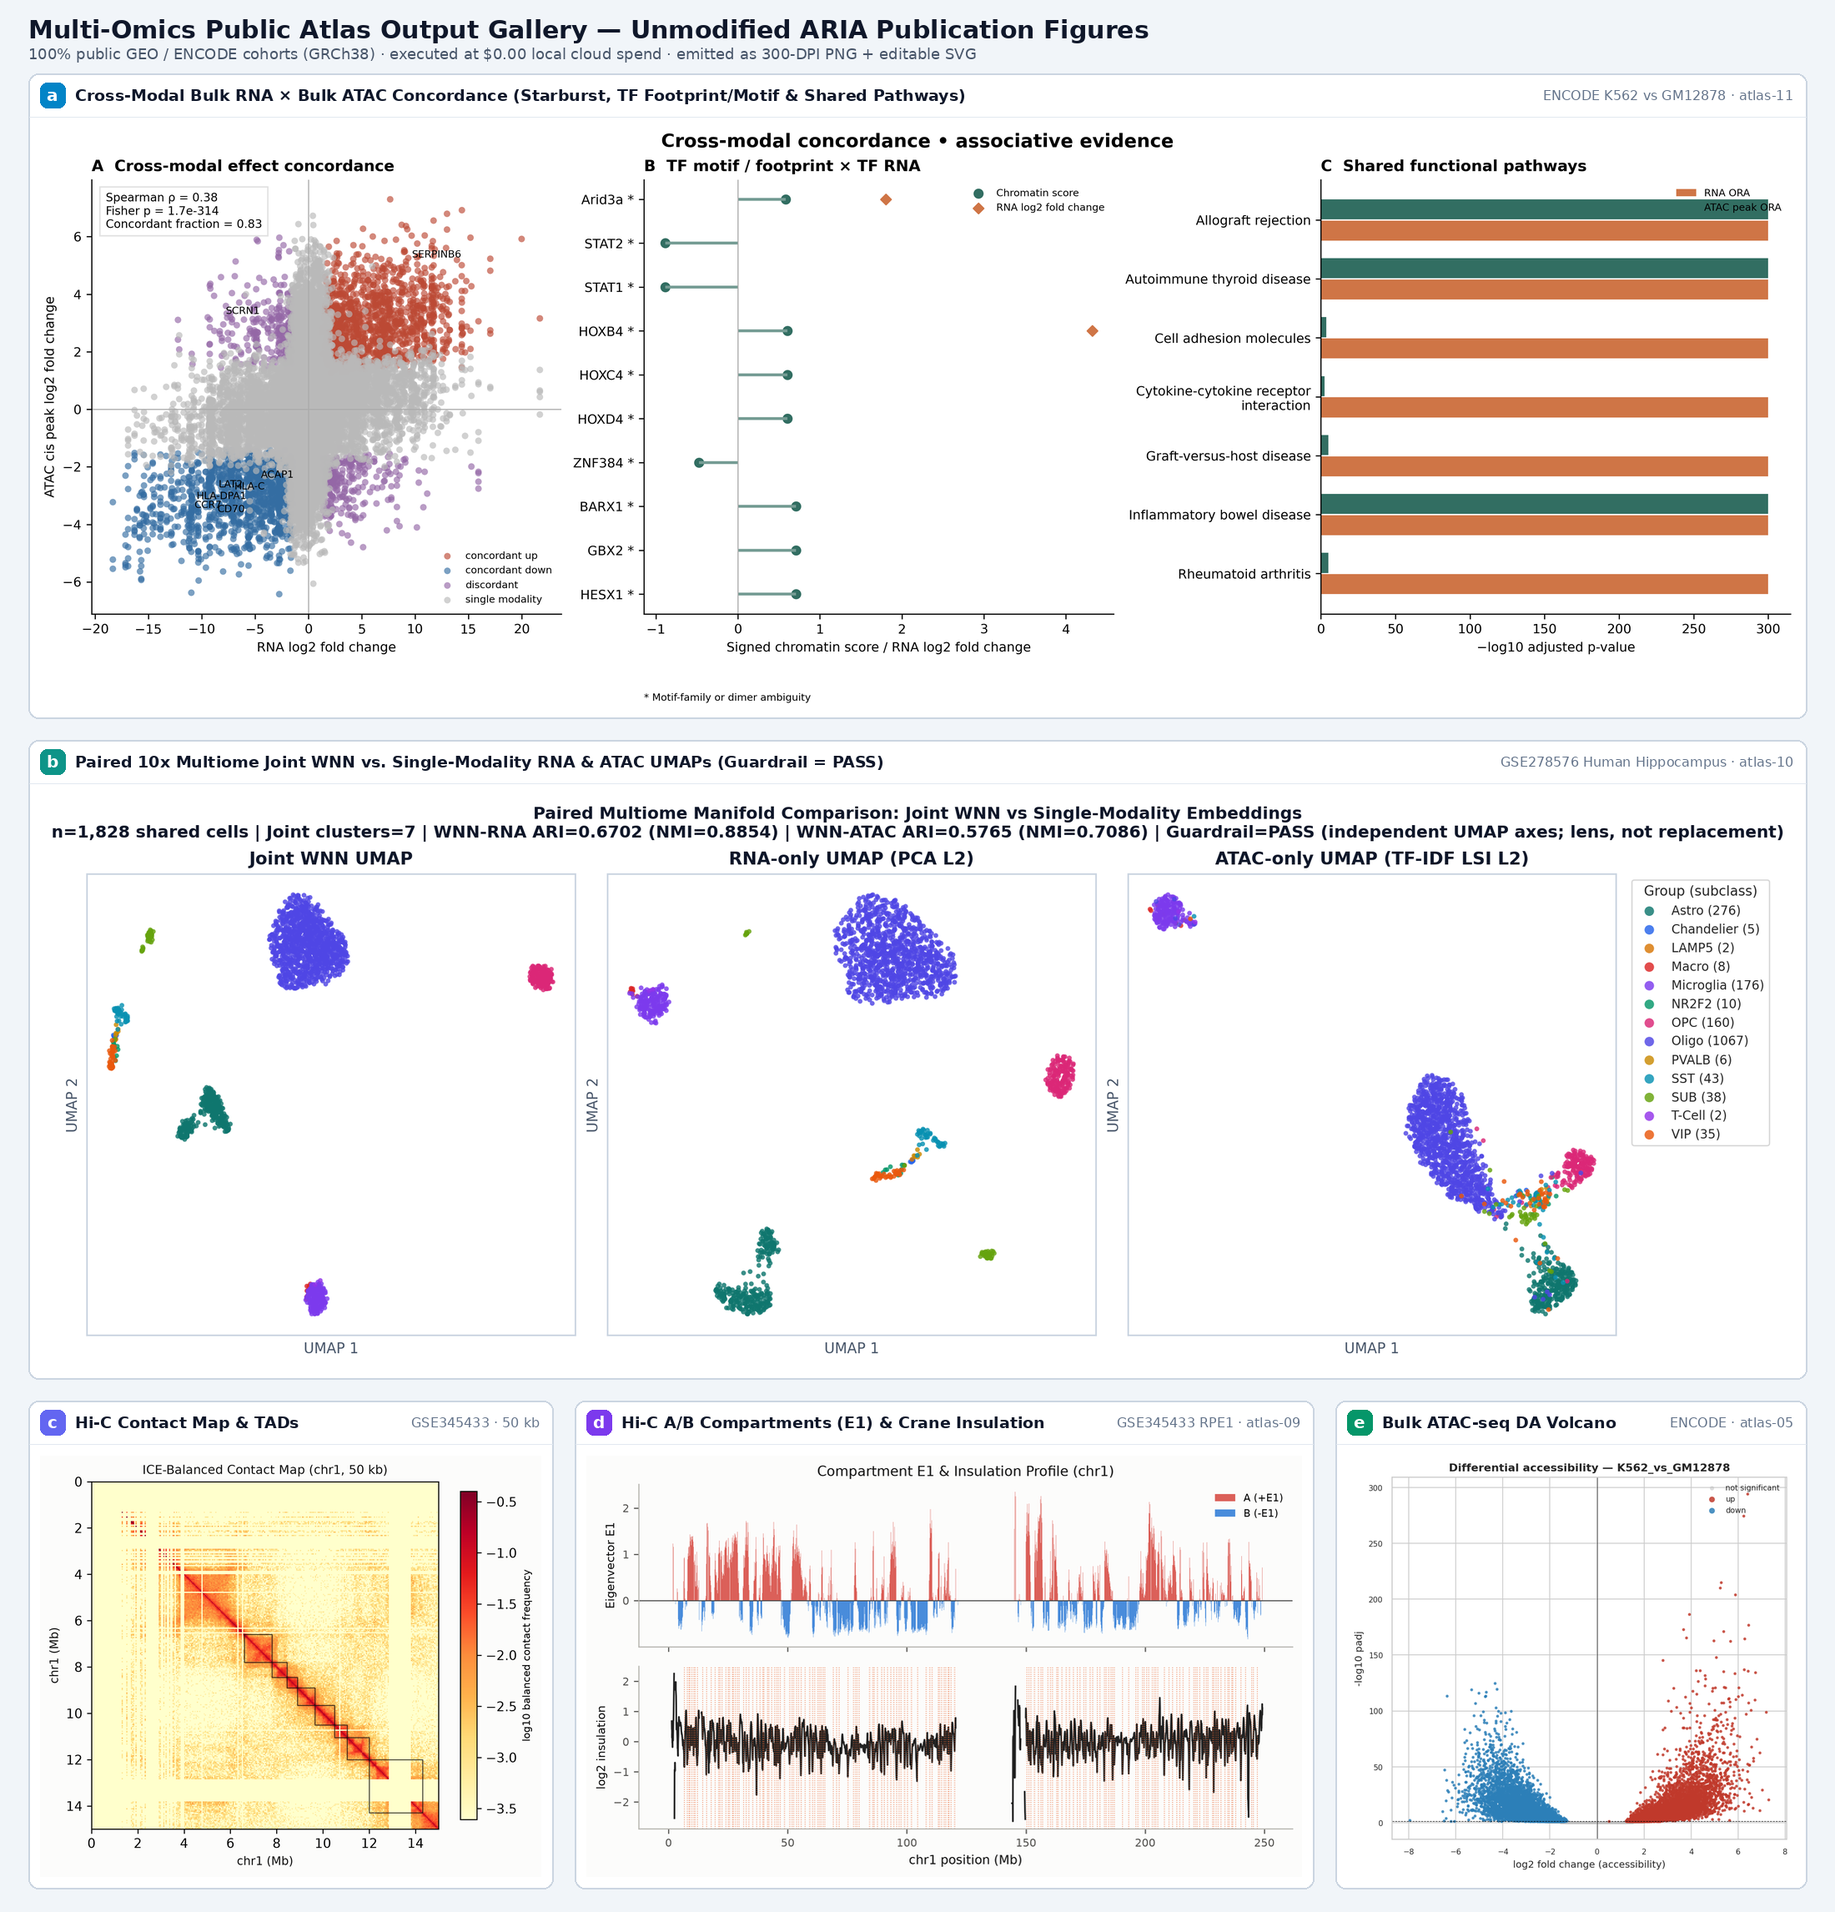
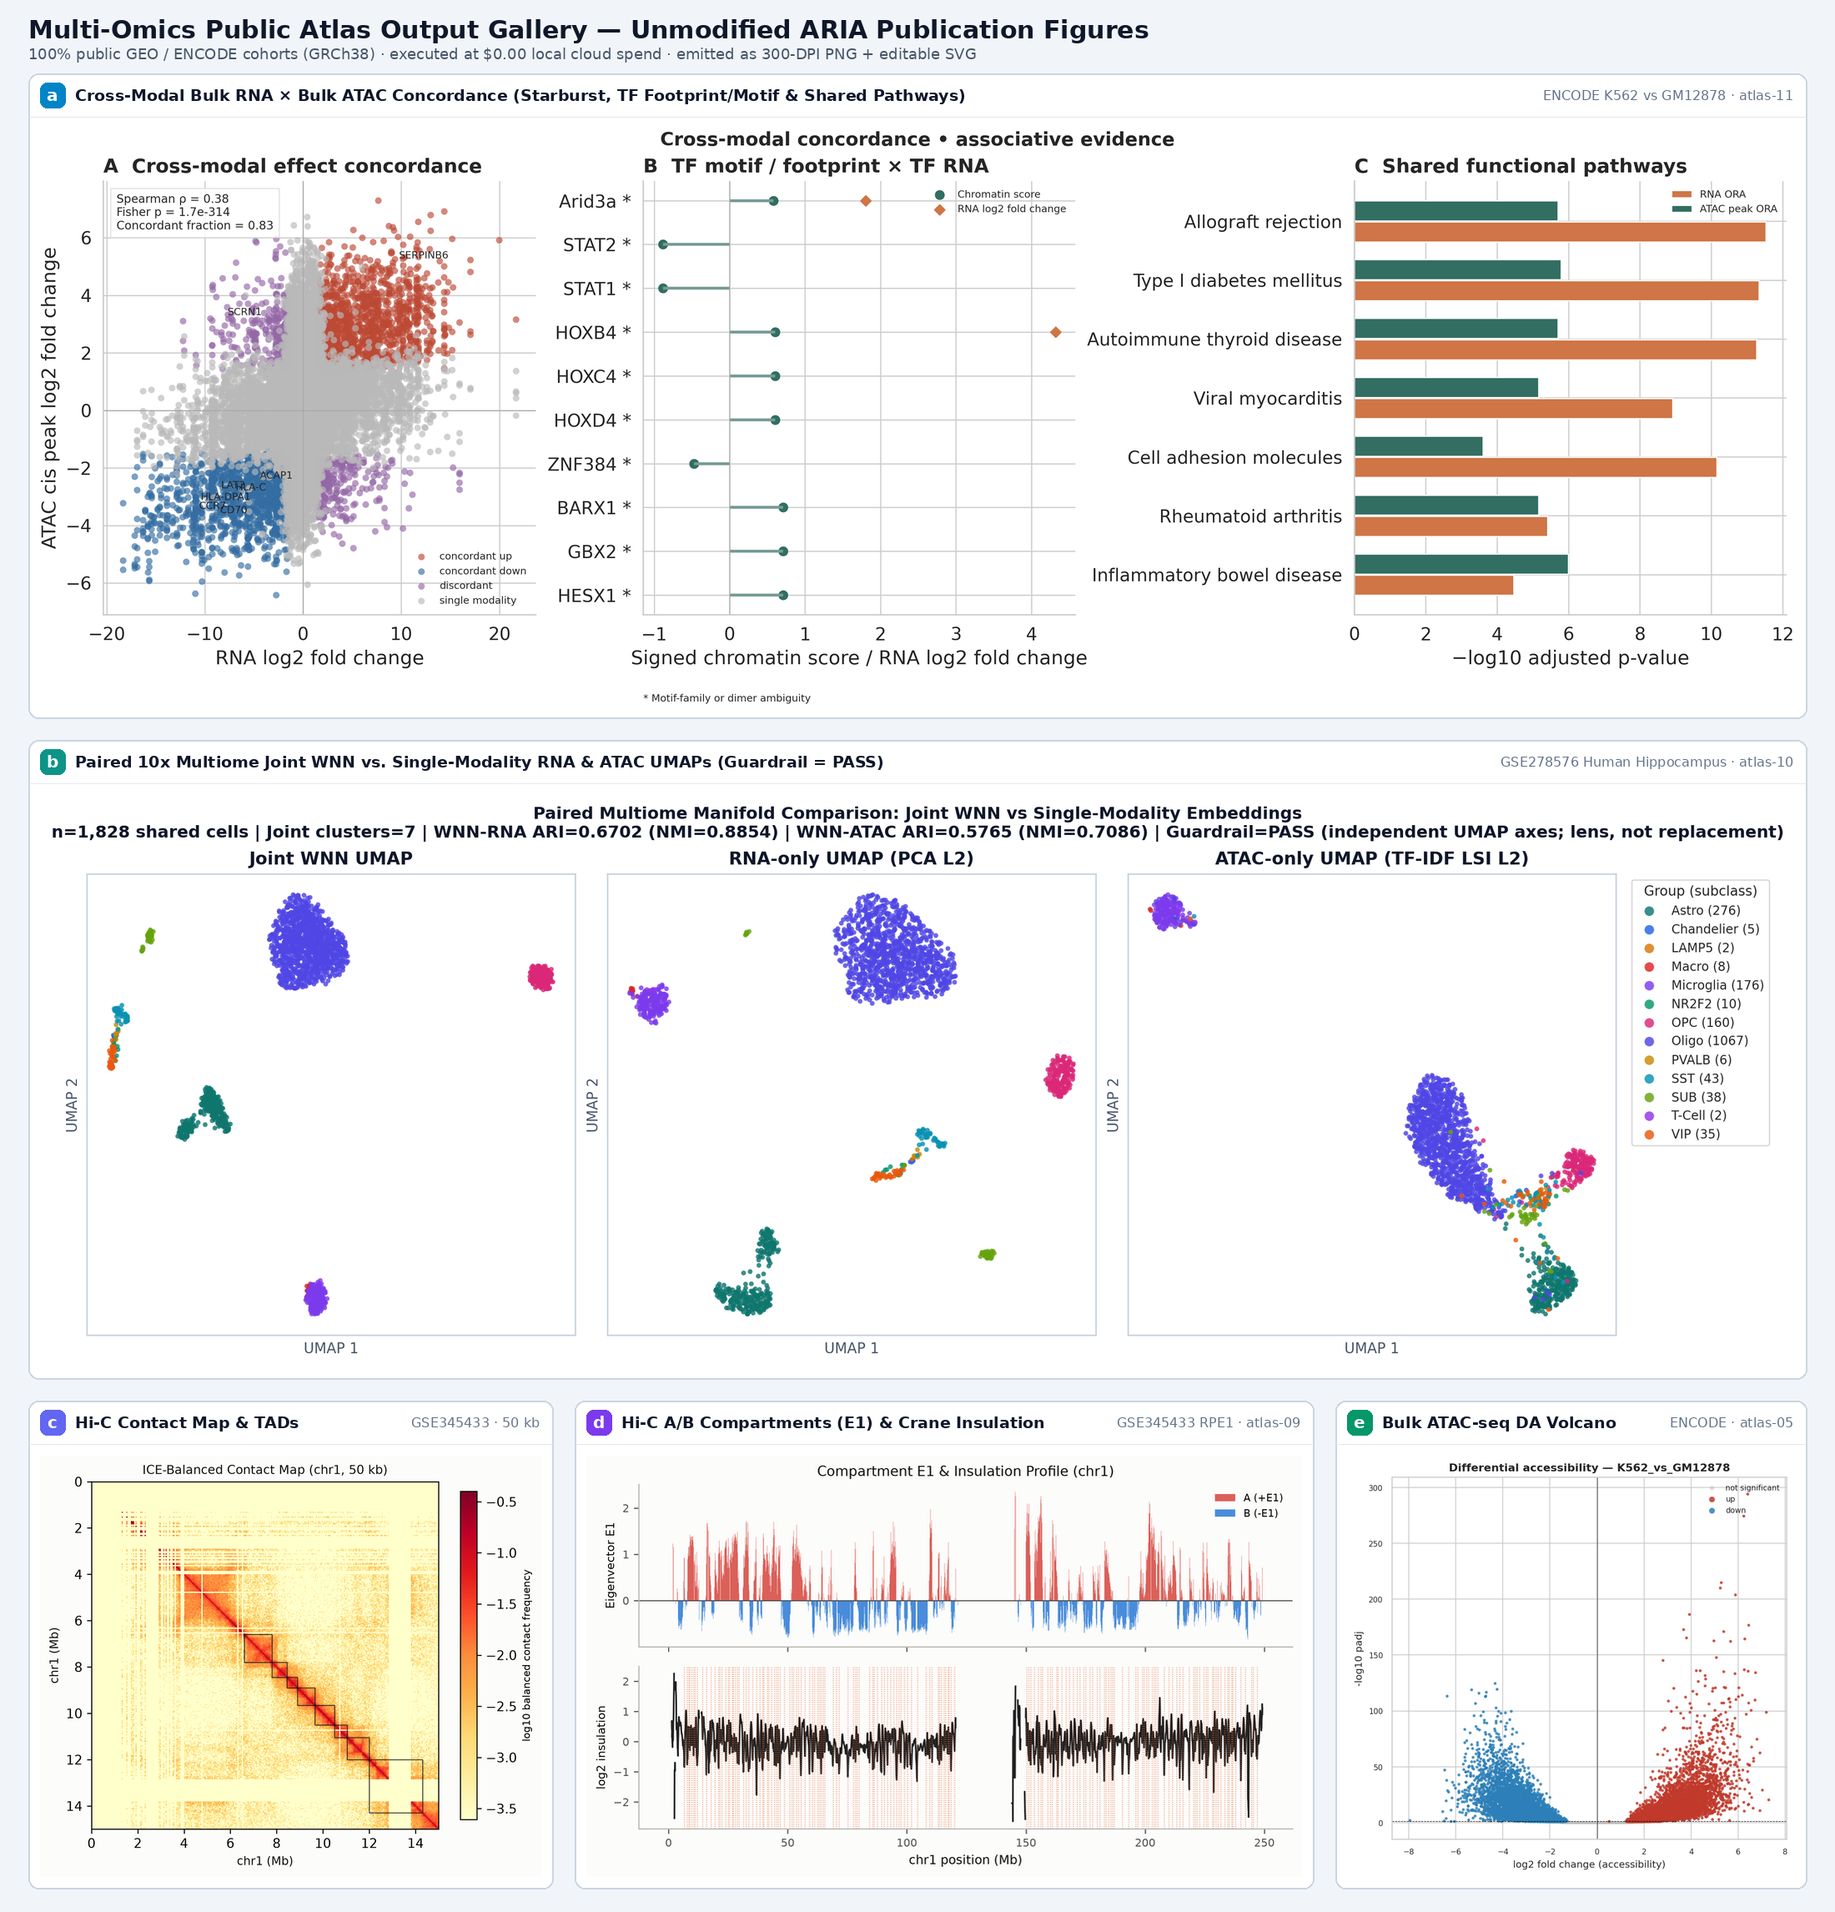
fix(ora,stats,viz): preserve float precision for padj/pvalue/qval and fix ORA dotplot count/scale

diff --git a/aria/scripts/rna_pathway_viz.py b/aria/scripts/rna_pathway_viz.py
@@ -107,12 +107,28 @@ def make_ora_dotplot(pathways_list: list,
         df = df.head(top_n).copy()
 
         # Derived columns matching ORA_mirna.py
-        df["-log10(FDR)"] = -np.log10(df["padj"].clip(lower=1e-300)).round(1)
+        padj_num = pd.to_numeric(df["padj"], errors="coerce")
+        df["-log10(FDR)"] = -np.log10(padj_num.clip(lower=1e-300)).round(2)
 
-        # Genes column: in our schema it's already a list; count length
-        df["Genes"] = df["genes"].apply(
-            lambda g: len(g) if isinstance(g, list) else 1
-        )
+        # Gene count: prefer the true overlap numerator (e.g. "12/134" -> 12)
+        # because the display `genes` list is capped at 10 entries in ORA output.
+        def _gene_count(row) -> int:
+            overlap = row.get("overlap")
+            if isinstance(overlap, str) and "/" in overlap:
+                try:
+                    k = int(overlap.split("/", 1)[0].strip())
+                    if k > 0:
+                        return k
+                except (TypeError, ValueError):
+                    pass
+            genes = row.get("genes")
+            if isinstance(genes, list):
+                return max(1, len(genes))
+            if isinstance(genes, str) and genes.strip():
+                return max(1, len([g for g in genes.split(";") if g.strip()]))
+            return 1
+
+        df["Genes"] = df.apply(_gene_count, axis=1)
 
         # Clean term names (strip GO IDs, Reactome IDs)
         df["Term"] = (df["term"]
@@ -136,11 +152,22 @@ def make_ora_dotplot(pathways_list: list,
         fig.patch.set_facecolor(_DARK_BG)
         ax.set_facecolor(_DARK_PANEL)
 
+        # Color normalization shared between scatter and colorbar
+        vmin = float(df["-log10(FDR)"].min())
+        vmax = float(df["-log10(FDR)"].max())
+        if not np.isfinite(vmin) or not np.isfinite(vmax):
+            vmin, vmax = 0.0, 1.0
+        elif vmin == vmax:
+            vmin = max(0.0, vmin - 0.5)
+            vmax = vmax + 0.5
+        norm = plt.Normalize(vmin, vmax)
+
         scatter = sns.scatterplot(
             data=df,
             x="log2_OR",
             y="Term",
             hue="-log10(FDR)",
+            hue_norm=norm,
             palette="flare_r",
             size="Genes",
             sizes=(80, 500),
@@ -149,7 +176,6 @@ def make_ora_dotplot(pathways_list: list,
         )
 
         # Color bar for FDR
-        norm = plt.Normalize(df["-log10(FDR)"].min(), df["-log10(FDR)"].max())
         sm = plt.cm.ScalarMappable(cmap="flare_r", norm=norm)
         sm.set_array([])
         cbar = plt.colorbar(sm, ax=ax, orientation="vertical",
@@ -158,13 +184,20 @@ def make_ora_dotplot(pathways_list: list,
         cbar.ax.tick_params(colors=_DARK_MUTED)
         cbar.outline.set_edgecolor(_DARK_MUTED)
 
-        # Size legend
-        gene_sizes = sorted(df["Genes"].unique())
-        # Cap legend entries to 5 for readability
+        # Size legend (scaled linearly on exact gene-count value to match scatter)
+        gene_sizes = sorted(int(g) for g in df["Genes"].unique())
+        # Cap legend entries to 5 for readability while preserving min & max
         if len(gene_sizes) > 5:
-            step = max(1, len(gene_sizes) // 5)
-            gene_sizes = gene_sizes[::step][:5]
-        marker_sizes = np.linspace(80, 500, len(gene_sizes))
+            idx = np.linspace(0, len(gene_sizes) - 1, 5).round().astype(int)
+            gene_sizes = sorted({gene_sizes[i] for i in idx})
+        g_min, g_max = min(gene_sizes), max(gene_sizes)
+        if g_max == g_min:
+            marker_sizes = [250.0 for _ in gene_sizes]
+        else:
+            marker_sizes = [
+                80.0 + (g - g_min) / (g_max - g_min) * (500.0 - 80.0)
+                for g in gene_sizes
+            ]
         legend_handles = [
             mlines.Line2D([], [], color=_DARK_TEXT, marker="o",
                           markersize=np.sqrt(s), label=f"{g}",

diff --git a/tests/test_local_ora.py b/tests/test_local_ora.py
@@ -102,7 +102,81 @@ def test_run_ora_enriches_planted_term():
     hit = next(r for r in res if r["term"] == "HIT")
     assert hit["overlap"] == "18/20"
     assert hit["odds_ratio"] > 1
-    assert 0.0 <= hit["padj"] < 0.05
+    assert 0.0 < hit["padj"] < 1e-25
+    assert 0.0 < hit["pvalue"] < 1e-25
+
+
+def test_run_ora_preserves_small_padj_precision_and_ordering():
+    """Regression guard: padj < 5e-6 must never underflow to 0.0 via fixed-decimal rounding.
+
+    Fixed-decimal round(q, 5) previously turned every padj < 5e-6 into 0.0, which
+    collapsed distinct pathways to ties and made -log10(max(padj, 1e-300)) jump to 300.
+    """
+    bg = [f"G{i}" for i in range(20000)]
+    strong_term = [f"G{i}" for i in range(134)]      # 12/134 -> padj ~ 1e-9
+    moderate_term = [f"G{i}" for i in range(34)]     #  6/34  -> padj ~ 1e-6
+    gene_sets = {
+        "MODERATE": moderate_term,
+        "STRONG": strong_term,
+        "DECOY": [f"G{i}" for i in range(5000, 5080)],
+    }
+    # 124 query genes: 6 shared with MODERATE+STRONG, 6 more only in STRONG, 112 background
+    query = (
+        [f"G{i}" for i in range(6)]
+        + [f"G{i}" for i in range(34, 40)]
+        + [f"G{i}" for i in range(10000, 10112)]
+    )
+
+    res = ora.run_ora(query, gene_sets, bg, padj_max=0.05, top=10)
+    by_term = {r["term"]: r for r in res}
+    assert set(by_term) == {"STRONG", "MODERATE"}
+    assert 0.0 < by_term["STRONG"]["padj"] < 1e-7
+    assert 0.0 < by_term["MODERATE"]["padj"] < 5e-6
+    assert 0.0 < by_term["STRONG"]["pvalue"] < 1e-8
+    assert by_term["STRONG"]["padj"] < by_term["MODERATE"]["padj"]
+    # Most significant term must sort first (not tie at 0.0).
+    assert [r["term"] for r in res] == ["STRONG", "MODERATE"]
+
+
+def test_make_ora_dotplot_uses_true_padj_and_overlap_gene_count(tmp_path):
+    """Regression guard: dotplot uses unrounded -log10(FDR) and true overlap k > 10."""
+    pytest.importorskip("matplotlib")
+    pytest.importorskip("seaborn")
+    from aria.scripts.rna_pathway_viz import make_ora_dotplot
+
+    pathways = [
+        {
+            "term": "Cytokine-cytokine receptor interaction",
+            "padj": 4.795e-09,
+            "pvalue": 3.688e-11,
+            "overlap": "12/134",
+            "odds_ratio": 18.12,
+            "combined_score": 189.1,
+            "genes": [f"G{i}" for i in range(10)],  # display preview capped at 10
+        },
+        {
+            "term": "Viral protein interaction with cytokine and cytokine receptor",
+            "padj": 3.576e-06,
+            "pvalue": 5.501e-08,
+            "overlap": "6/34",
+            "odds_ratio": 38.63,
+            "combined_score": 280.5,
+            "genes": [f"G{i}" for i in range(6)],
+        },
+        {
+            "term": "p53 signaling pathway",
+            "padj": 1.784e-04,
+            "pvalue": 4.116e-06,
+            "overlap": "6/69",
+            "odds_ratio": 17.31,
+            "combined_score": 93.2,
+            "genes": [f"G{i}" for i in range(6)],
+        },
+    ]
+    out_png = tmp_path / "kegg_down.png"
+    res = make_ora_dotplot(pathways, "KEGG_down", "REV_ERBa_KO vs WT", str(out_png))
+    assert res == str(out_png)
+    assert out_png.is_file() and out_png.stat().st_size > 1000
 
 
 def test_run_ora_no_significant_returns_empty():

diff --git a/aria/utils/ora.py b/aria/utils/ora.py
@@ -214,12 +214,13 @@ def run_ora(query_genes, gene_sets: dict, background_genes,
     padj = bh_correct([t["pvalue"] for t in tested])
     out = []
     for t, q in zip(tested, padj):
-        p = t["pvalue"]
+        p = float(t["pvalue"])
+        q_val = float(q)
         combined = round(-math.log10(max(p, 1e-300)) * max(t["odds_ratio"], 0.0), 1)
         out.append({
             "term": t["term"],
-            "padj": round(float(q), 5),
-            "pvalue": round(float(p), 8),
+            "padj": q_val,
+            "pvalue": p,
             "overlap": f"{t['_k']}/{t['_n']}",
             "odds_ratio": t["odds_ratio"],
             "combined_score": combined,
@@ -227,7 +228,7 @@ def run_ora(query_genes, gene_sets: dict, background_genes,
         })
 
     out = [r for r in out if r["padj"] < padj_max]
-    out.sort(key=lambda r: r["padj"])
+    out.sort(key=lambda r: (r["padj"], r["pvalue"], r["term"]))
     return out[:top]
 
 

diff --git a/aria/scripts/chromatin_diffacc.py b/aria/scripts/chromatin_diffacc.py
@@ -160,7 +160,7 @@ def _per_cluster_accessibility(adata, groupby, padj_max, lfc_min, top_n,
                 "cluster": cl_s,
                 "peak": peak,
                 "log2fc": round(l_val, 3),
-                "padj": round(p_val, 6),
+                "padj": float(p_val),
                 "pct_in": round(_binary_pct(raw_X, mask_in, pi), 3)
                 if mask_in is not None else None,
                 "pct_out": round(_binary_pct(raw_X, mask_out, pi), 3)
@@ -466,7 +466,7 @@ def _pseudobulk_da(adata, condition_col, replicate_col, comparisons,
                 "comparison": comp_key,
                 "peak": str(peak),
                 "log2fc": round(float(r["log2FoldChange"]), 3),
-                "padj": round(float(r["padj"]), 6),
+                "padj": float(r["padj"]),
             }
             top_peaks.append(rec)
             rows_csv.append(rec)

diff --git a/aria/utils/lobo_jackknife.py b/aria/utils/lobo_jackknife.py
@@ -283,13 +283,13 @@ def compute_lobo_jackknife(
         if max_reported_features is None or rank_i < int(max_reported_features):
             per_feature[fid] = {
                 "full_lfc": round(f_lfc_val, 6),
-                "full_padj": round(f_padj_val, 6),
+                "full_padj": float(f_padj_val),
                 "n_jackknife_folds": len(folds),
                 "sign_consistent_fraction": round(sign_frac, 4),
                 "lfc_min": round(float(np.min(row_lfcs)), 6),
                 "lfc_max": round(float(np.max(row_lfcs)), 6),
                 "lfc_iqr": round(float(q75 - q25), 6),
-                "max_jackknife_padj": round(max_padj, 6),
+                "max_jackknife_padj": float(max_padj),
                 "most_influential_unit": fold_units[worst_idx],
                 "single_unit_driven": single_unit_driven,
             }

diff --git a/aria/scripts/hic_topology.py b/aria/scripts/hic_topology.py
@@ -856,7 +856,7 @@ def _compute_loops(
                 if "count" in row and row["count"] is not None:
                     item["count"] = int(row["count"])
                 if "la_exp.donut.qval" in row and math.isfinite(float(row["la_exp.donut.qval"])):
-                    item["qval"] = round(float(row["la_exp.donut.qval"]), 6)
+                    item["qval"] = float(row["la_exp.donut.qval"])
                 if "anchor1_genes" in row and str(row["anchor1_genes"]):
                     item["anchor1_genes"] = str(row["anchor1_genes"])
                 if "anchor2_genes" in row and str(row["anchor2_genes"]):

diff --git a/aria/scripts/rna_bulk/ora.py b/aria/scripts/rna_bulk/ora.py
@@ -52,7 +52,7 @@ def _enrichr_enrichment(sig_symbols: list, db_labels: list, gene_sets: dict,
                     pathways[db] = [
                         {
                             "term":    row["Term"],
-                            "padj":    round(float(row["Adjusted P-value"]), 5),
+                            "padj":    float(row["Adjusted P-value"]),
                             "overlap": row.get("Overlap", ""),
                             "odds_ratio": round(float(row.get("Odds Ratio", 1)), 2),
                             "combined_score": round(float(row.get("Combined Score", 0)), 1),

diff --git a/aria/scripts/rna_pathway_per_cluster.py b/aria/scripts/rna_pathway_per_cluster.py
@@ -208,7 +208,7 @@ def rna_pathway_per_cluster(params: dict) -> dict:
         return [
             {
                 "term":           str(row["Term"]),
-                "padj":           round(float(row["Adjusted P-value"]), 5),
+                "padj":           float(row["Adjusted P-value"]),
                 "overlap":        str(row.get("Overlap", "")),
                 "odds_ratio":     round(float(row.get("Odds Ratio", 1)), 2),
                 "combined_score": round(float(row.get("Combined Score", 0)), 1),

diff --git a/aria/scripts/rna_de_per_cluster.py b/aria/scripts/rna_de_per_cluster.py
@@ -150,7 +150,7 @@ def rna_de_per_cluster(params: dict) -> dict:
                 "cluster": cl_str,
                 "gene":    gene,
                 "log2fc":  round(l_val, 3),
-                "padj":    round(p_val, 6),
+                "padj":    float(p_val),
                 "pct_in":  round(pct_in, 3)  if pct_in  is not None else None,
                 "pct_out": round(pct_out, 3) if pct_out is not None else None,
             }

diff --git a/aria/scripts/chromatin_bulk_diffacc.py b/aria/scripts/chromatin_bulk_diffacc.py
@@ -458,7 +458,7 @@ def chromatin_bulk_diffacc(params: dict) -> dict:
             top_peaks.append({
                 "peak": str(peak),
                 "log2fc": round(float(row_df["log2FoldChange"]), 3),
-                "padj": round(float(row_df["padj"]), 6),
+                "padj": float(row_df["padj"]),
             })
         try:
             lobo_res = compute_counts_lobo_jackknife(
